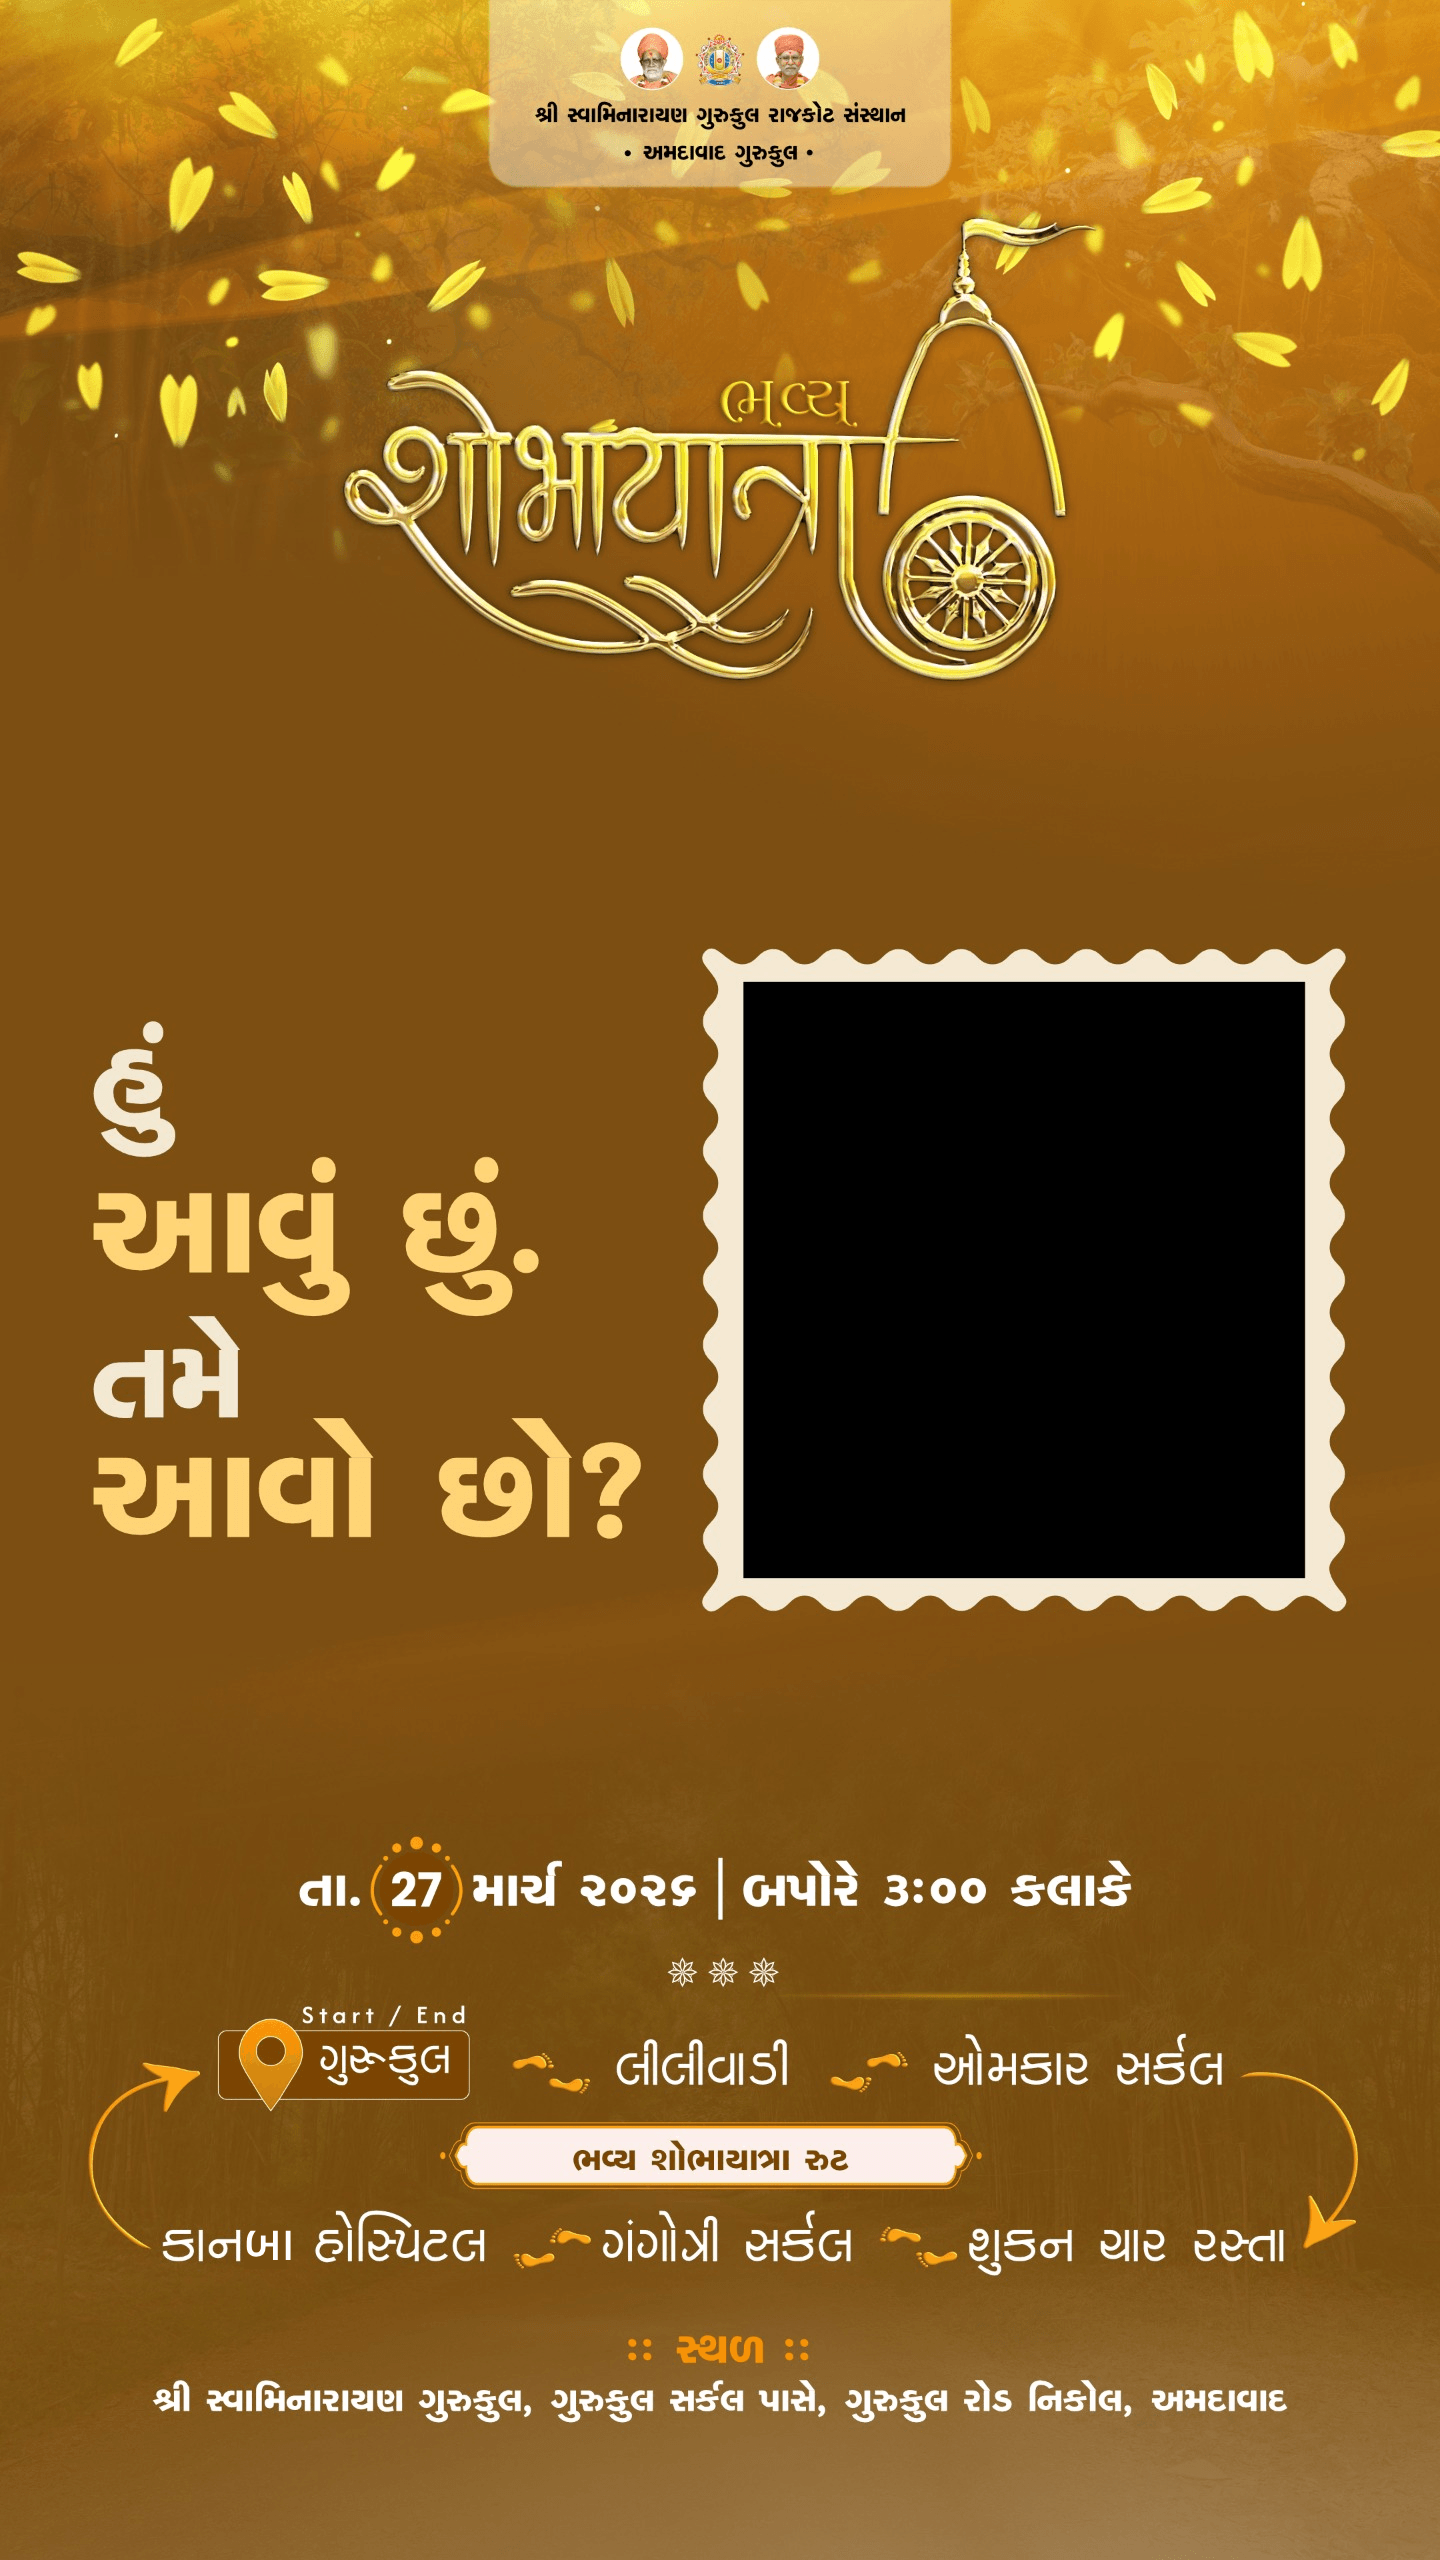
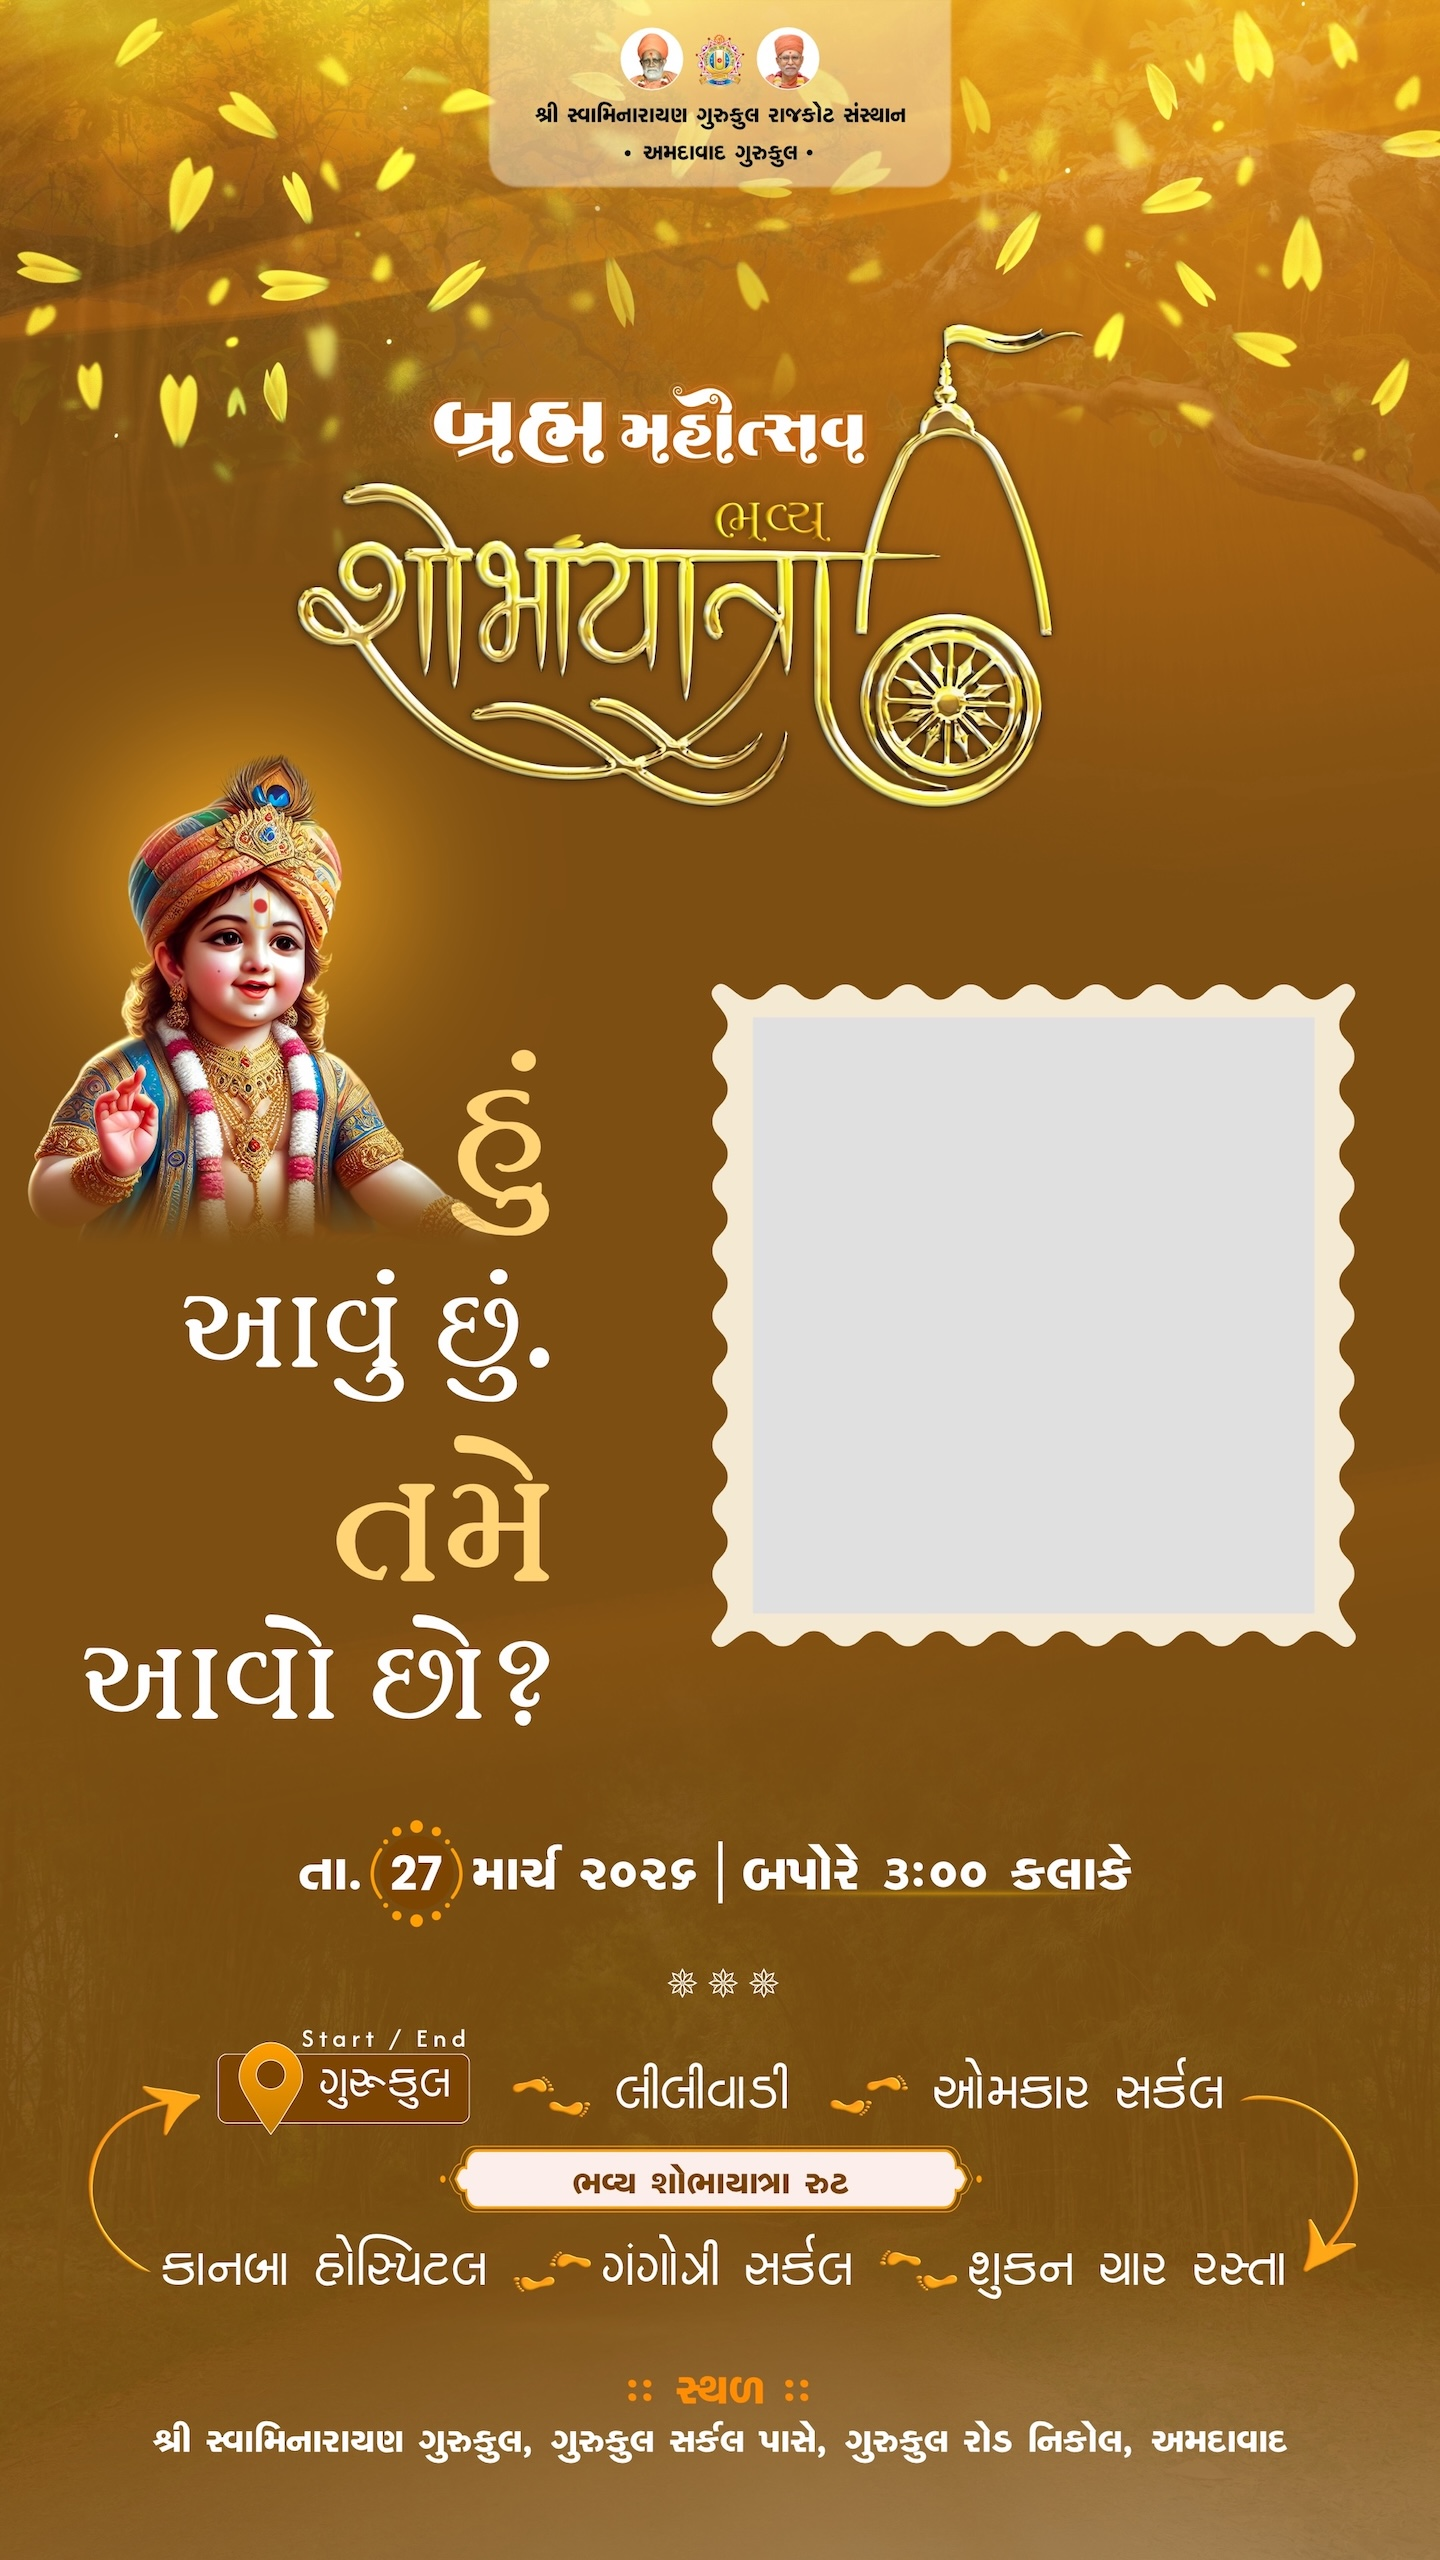
Background image changed

diff --git a/gurukul-shobhayatra-2026/src/App.jsx b/gurukul-shobhayatra-2026/src/App.jsx
@@ -106,7 +106,7 @@ const App = () => {
           img.src = imageSrc;
           img.onload = () => {
             const positions = [
-              { x: 745, y: 980 },
+              { x: 755, y: 1015 },
             ];
             const { x, y } = positions[idx];
             const { width, height } = cropSizes[idx] || {};
@@ -127,10 +127,10 @@ const App = () => {
   
       ctx.font = `bold 80px 'Rasa', sans-serif`;
       ctx.fillStyle = "#ffffff";
-      ctx.textAlign = "right";
-  
+      ctx.textAlign = "center";
+      
       // Draw first text
-      ctx.fillText(text, 1200, canvas.height - 850);
+      ctx.fillText(text, 1030, canvas.height - 830);
       };
   };
   
